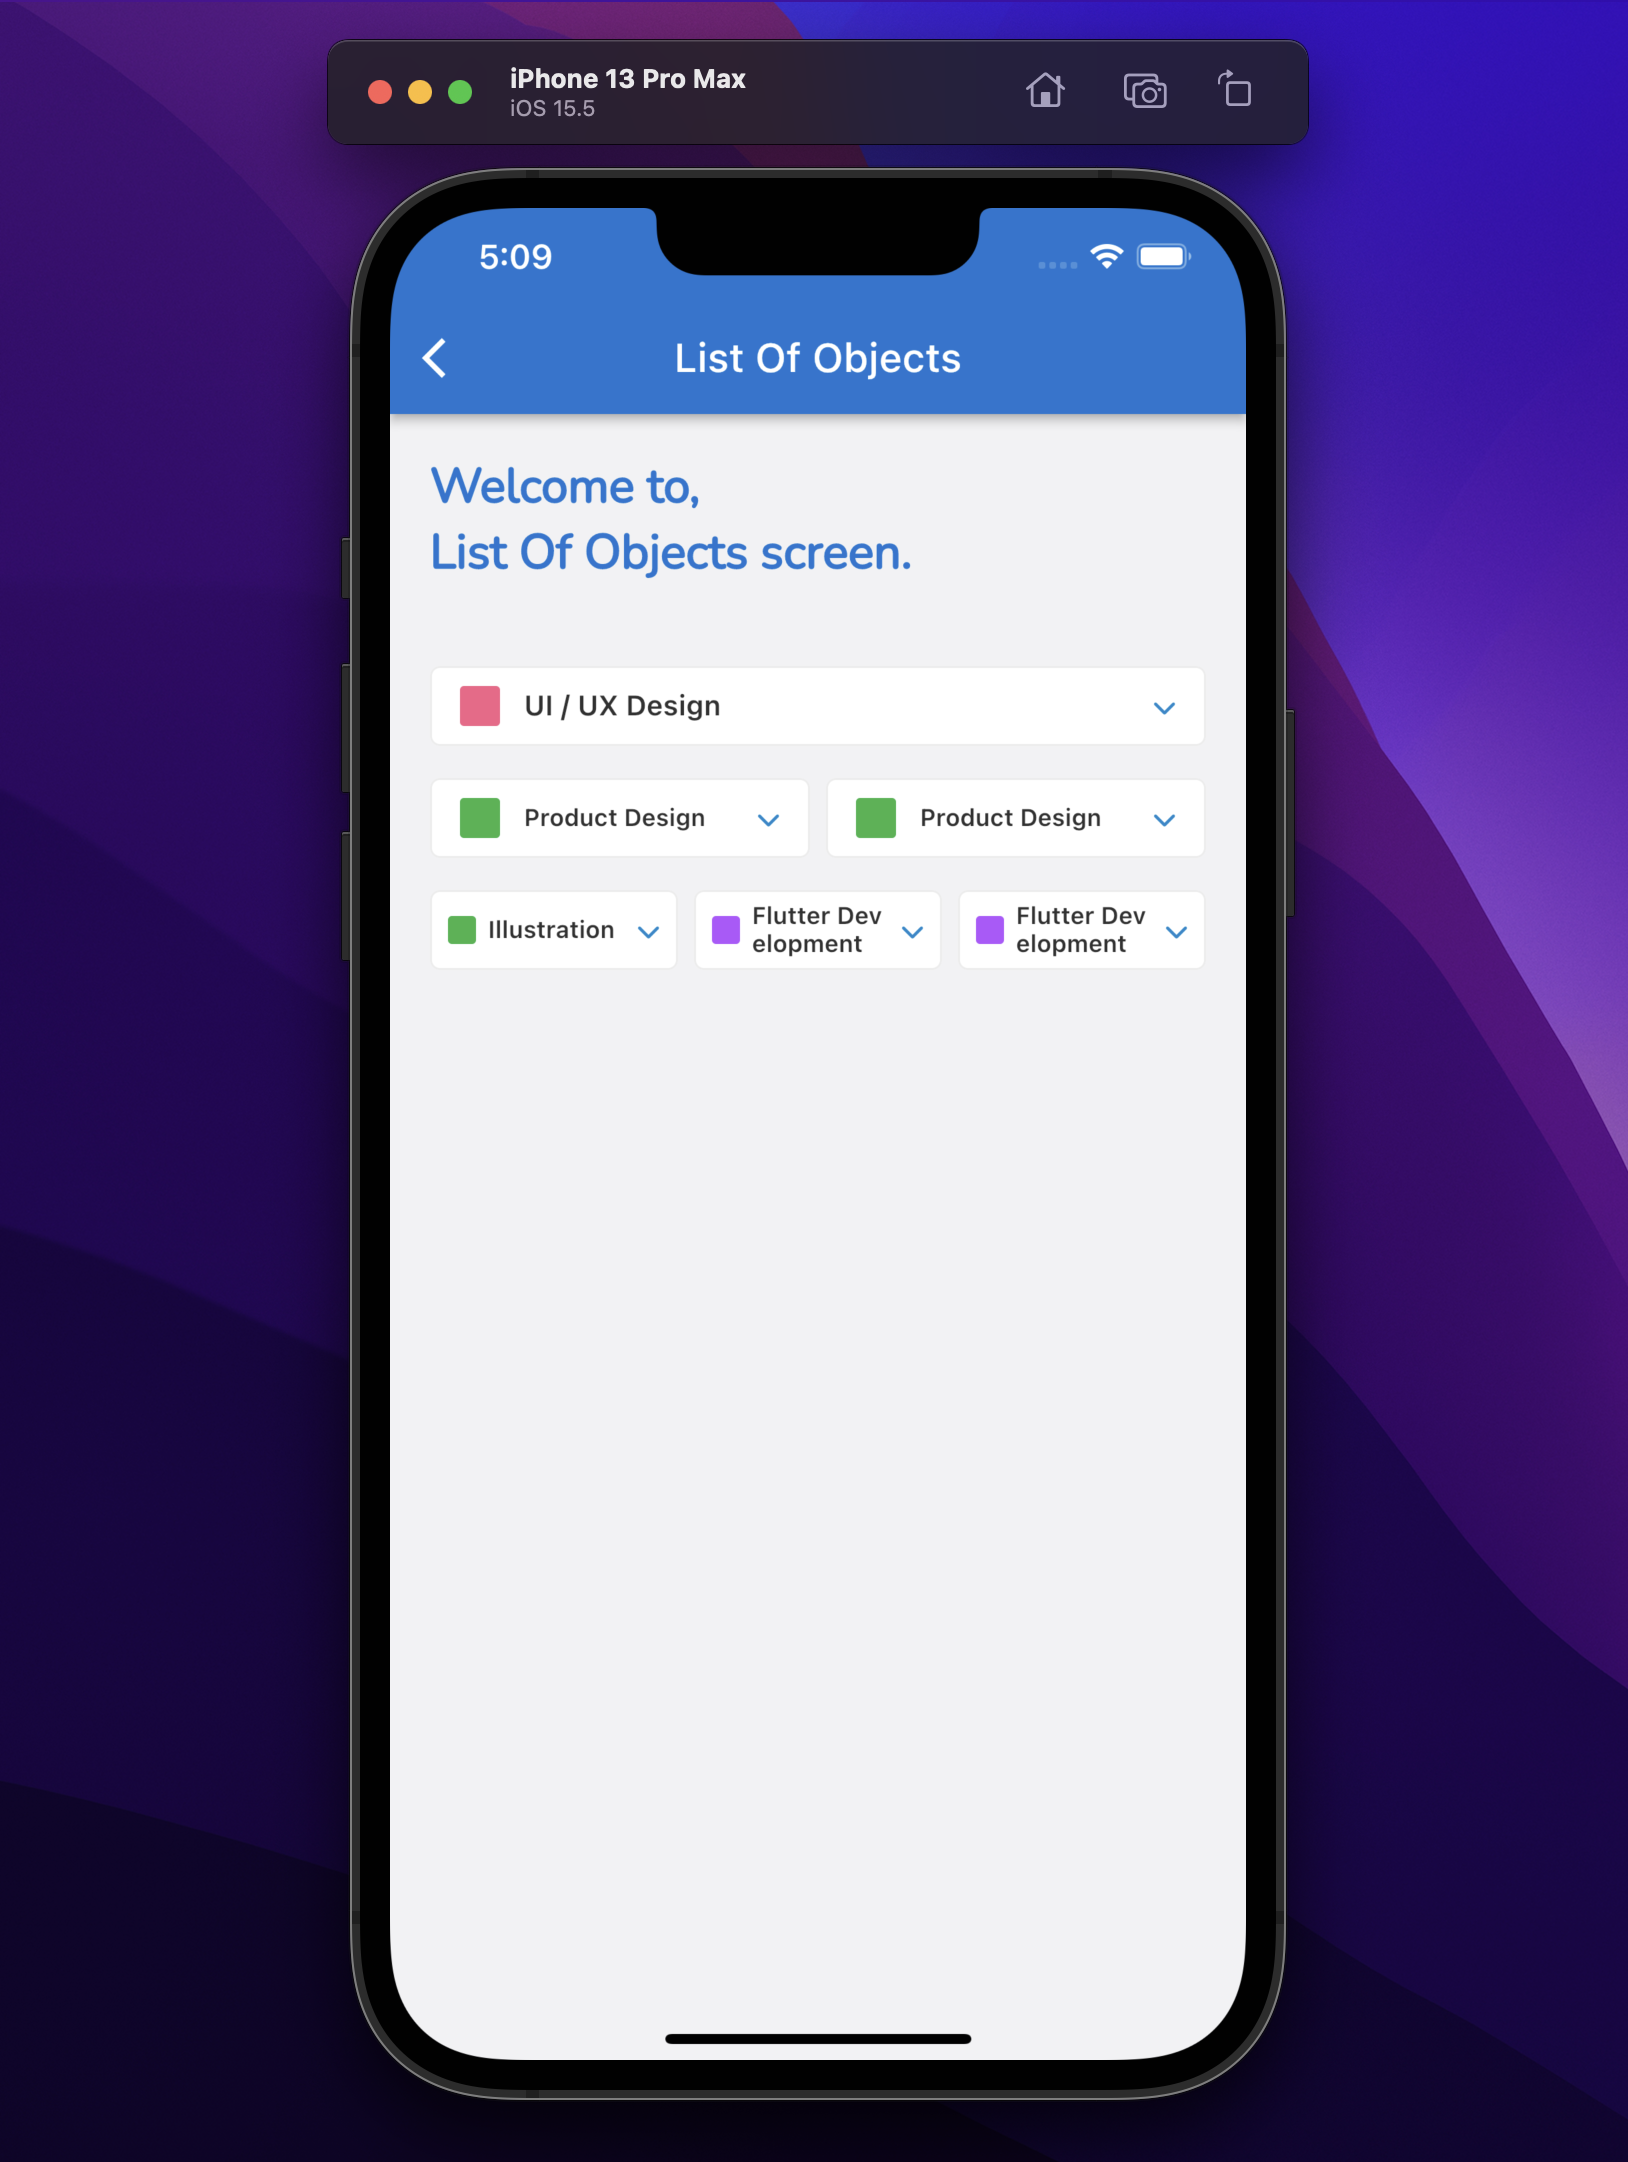
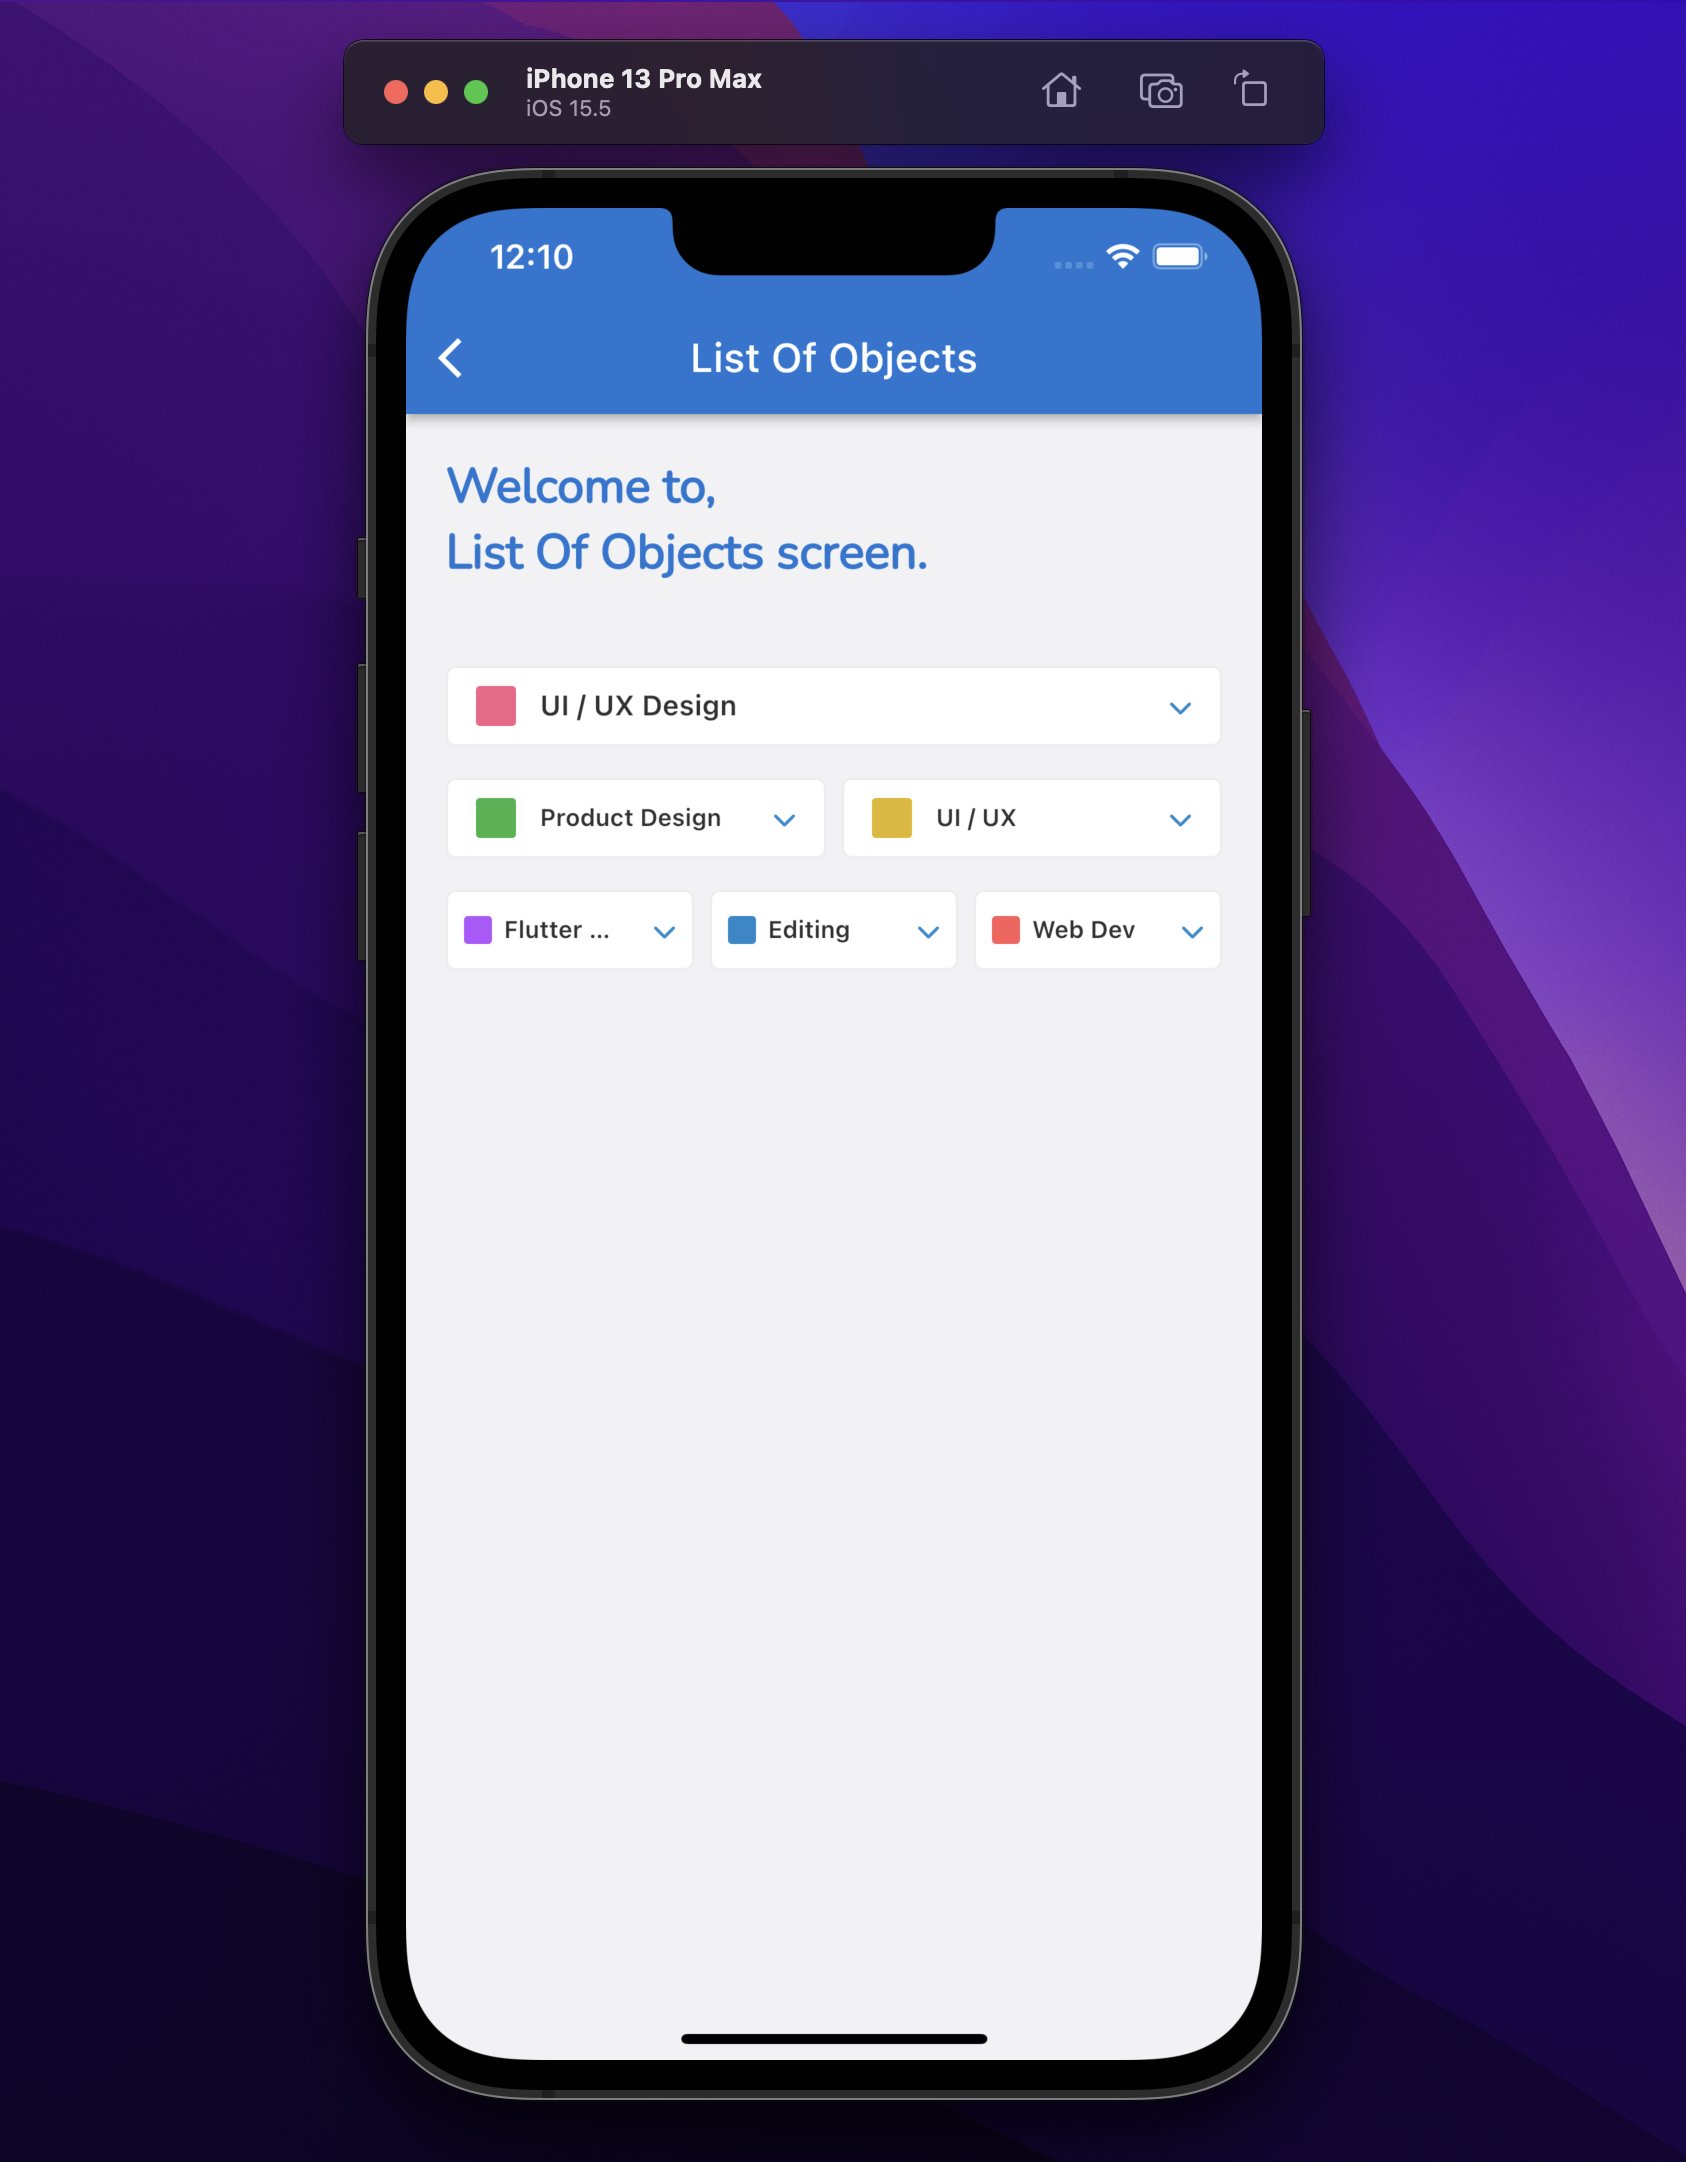
General Search..

diff --git a/example/lib/main.dart b/example/lib/main.dart
@@ -1,11 +1,17 @@
 import 'package:example/app/screens/home_screen/home_screen.dart';
-import 'package:flutter/foundation.dart';
 import 'package:flutter/material.dart';
 import 'package:google_fonts/google_fonts.dart';
 
 import 'app/core/utils/app_size_config.dart';
 
 void main() {
+  const bool isProduction = bool.fromEnvironment('dart.vm.product');
+  if (isProduction) {
+    // analyser does not like empty function body
+    // debugPrint = (String message, {int wrapWidth}) {};
+    // so i changed it to this:
+    debugPrint = (String? message, {int? wrapWidth}) {};
+  }
   runApp(const MyApp());
 }
 
@@ -15,27 +21,31 @@ class MyApp extends StatelessWidget {
   // This widget is the root of your application.
   @override
   Widget build(BuildContext context) {
-    return LayoutBuilder(builder: (context, boxConstraints) {
-      return OrientationBuilder(builder: (context, orientation) {
-        /// init sizes
-        AppSizeConfig.init(
-          orientation: orientation,
-          constraints: boxConstraints,
+    return LayoutBuilder(
+      builder: (_, BoxConstraints boxConstraints) {
+        return OrientationBuilder(
+          builder: (__, Orientation orientation) {
+            /// init sizes
+            AppSizeConfig.init(
+              orientation: orientation,
+              constraints: boxConstraints,
+            );
+            return MaterialApp(
+              title: 'Mirai dropdown menu example',
+              debugShowCheckedModeBanner: false,
+              theme: ThemeData(
+                primarySwatch: Colors.blue,
+                primaryColor: Colors.transparent,
+                textTheme: TextTheme(
+                  headline1: GoogleFonts.nunito(),
+                  button: GoogleFonts.nunito(),
+                ),
+              ),
+              home: const HomeScreen(title: 'Mirai Dropdown menu \nExample'),
+            );
+          },
         );
-        return MaterialApp(
-          title: 'Mirai dropdown menu example',
-          debugShowCheckedModeBanner: false,
-          theme: ThemeData(
-            primarySwatch: Colors.blue,
-            primaryColor: Colors.transparent,
-            textTheme: TextTheme(
-              headline1: GoogleFonts.nunito(),
-              button: GoogleFonts.nunito(),
-            ),
-          ),
-          home: const HomeScreen(title: 'Mirai Dropdown menu \nExample'),
-        );
-      });
-    });
+      },
+    );
   }
 }

diff --git a/lib/src/mirai_dropdown_menu.dart b/lib/src/mirai_dropdown_menu.dart
@@ -12,8 +12,10 @@ import 'widgets/mirai_keyboard_visibility_builder_widget.dart';
 part 'utils/enums.dart';
 
 typedef MiraiDropdownBuilder<T> = Widget Function(int index, T item);
+
 typedef MiraiHighLightDropdownBuilder<T> = Widget Function(
     int index, SearchAttributes<T> item);
+
 typedef MiraiValueChanged<T> = void Function(T value);
 
 class MiraiPopupMenu<T> extends StatefulWidget {
@@ -38,7 +40,6 @@ class MiraiPopupMenu<T> extends StatefulWidget {
     this.emptyListMessage,
     this.showSearchTextField = false,
     this.searchDecoration,
-    this.searchQuery,
   })  : assert(child.key != null),
         super(key: key);
 
@@ -74,7 +75,6 @@ class MiraiPopupMenu<T> extends StatefulWidget {
 
   final bool showSearchTextField;
   final InputDecoration? searchDecoration;
-  final String? searchQuery;
 
   @override
   MiraiPopupMenuState<T> createState() => MiraiPopupMenuState<T>();
@@ -364,14 +364,12 @@ class _DropDownMenuContentState<T> extends State<_DropDownMenuContent<T>>
           return buildItemToReturn(index, children);
         }
       } else {
-        debugPrint('buildOtherWidget index$index');
         return buildOtherWidget();
       }
     }
   }
 
   InkWell buildItemToReturn(int index, SearchAttributes<T> children) {
-    debugPrint('children index: $index');
     return InkWell(
       onTap: () => onTapChild(index),
       child: widget.itemWidget(
@@ -474,7 +472,7 @@ class _DropDownMenuContentState<T> extends State<_DropDownMenuContent<T>>
       searchChildren.value.mQueryClient = query;
 
       final results = widget.children.where((child) =>
-          '${(child is String) ? child : widget.searchQuery}'
+          ((child is String) ? child : child.toString())
               .toLowerCase()
               .contains(query));
       searchChildren.value.searchList = List.from(results);

diff --git a/example/lib/app/screens/list_of_objects_screen/components/drop_down_object_child_widget.dart b/example/lib/app/screens/list_of_objects_screen/components/drop_down_object_child_widget.dart
@@ -18,6 +18,7 @@ class DropDownObjectChildWidget extends StatelessWidget {
     this.padding,
     this.fontSize,
     this.coloredContainerSize,
+    this.height,
   }) : super(key: key);
 
   final ValueNotifier<ProjectModel> projectValueNotifier;
@@ -26,6 +27,7 @@ class DropDownObjectChildWidget extends StatelessWidget {
   final EdgeInsetsGeometry? padding;
   final double? fontSize;
   final double? coloredContainerSize;
+  final double? height;
 
   @override
   Widget build(BuildContext context) {
@@ -40,7 +42,7 @@ class DropDownObjectChildWidget extends StatelessWidget {
           width: 1.0,
         ),
       ),
-      height: 40,
+      height: height ?? 40,
       child: ValueListenableBuilder<ProjectModel>(
         valueListenable: projectValueNotifier,
         builder: (_, ProjectModel project, __) {
@@ -59,10 +61,12 @@ class DropDownObjectChildWidget extends StatelessWidget {
                     child: Text(
                       '${project.job}',
                       key: ValueKey<String>('${project.title}'.trim()),
+                      maxLines: 1,
                       style: Theme.of(context).textTheme.bodyText1!.copyWith(
                             fontWeight: FontWeight.w600,
                             color: AppTheme.keyTextBlackColor,
                             fontSize: fontSize,
+                            overflow: TextOverflow.ellipsis,
                           ),
                     ),
                   ),

diff --git a/example/lib/app/screens/list_of_objects_screen/list_of_objects_screen.dart b/example/lib/app/screens/list_of_objects_screen/list_of_objects_screen.dart
@@ -65,6 +65,7 @@ class _ListObjectsScreenState extends State<ListObjectsScreen> {
               key: UniqueKey(),
               children: listProjects,
               space: 4,
+              showSearchTextField: true,
               itemWidgetBuilder: (int index, ProjectModel project) {
                 return DropDownItemWidget(project: project);
               },

diff --git a/example/lib/app/models/project_model.dart b/example/lib/app/models/project_model.dart
@@ -24,4 +24,9 @@ class ProjectModel {
     this.progress,
     this.color = const Color(0xFF37B34A),
   });
+
+  @override
+  String toString() {
+    return 'ProjectModel{number: $number, job: $job, name: $name, title: $title, date: $date, client: $client, progress: $progress, color: $color}';
+  }
 }

diff --git a/example/lib/app/data/projects.dart b/example/lib/app/data/projects.dart
@@ -24,7 +24,7 @@ ProjectModel projectModel1 = ProjectModel(
 
 ProjectModel projectModel2 = ProjectModel(
   job: "BackEnd Development",
-  name: "Mohammed Benmchich",
+  name: "Bilal Aboubi",
   title: "5% completed 19988 budget left",
   progress: 0.05,
   color: listColor[2],

diff --git a/README.md b/README.md
@@ -216,19 +216,26 @@ If the MiraiDropDown package matches your needs, please do not hesitate to suppo
 
 <a href="https://www.buymeacoffee.com/miraidevs" target="_blank"><img src="https://www.buymeacoffee.com/assets/img/custom_images/purple_img.png" alt="Buy Me A Coffee" style="height: 41px !important;width: 174px !important;box-shadow: 0px 3px 2px 0px rgba(190, 190, 190, 0.5) !important;-webkit-box-shadow: 0px 3px 2px 0px rgba(190, 190, 190, 0.5) !important;" ></a>
 
-## iOS:
-
 #### List Of Objects:
 ![](screenshots/0.0.6_screenshots/06.png)
 ![](screenshots/0.0.6_screenshots/07.png)
 ![](screenshots/0.0.6_screenshots/08.png)
 ![](screenshots/0.0.6_screenshots/09.png)
 
+#### General search list of objects:
+![](screenshots/0.0.6+1_screenshots/01.png)
+![](screenshots/0.0.6+1_screenshots/02.png)
+![](screenshots/0.0.6+1_screenshots/03.png)
+![](screenshots/0.0.6+1_screenshots/04.png)
+![](screenshots/0.0.6+1_screenshots/05.png)
+
 #### List Of Texts / Strings:
 ![](screenshots/0.0.6_screenshots/01.png)
-![](screenshots/0.0.6_screenshots/10.png)
-![](screenshots/0.0.6_screenshots/11.png)
 ![](screenshots/0.0.6_screenshots/02.png)
 ![](screenshots/0.0.6_screenshots/03.png)
 ![](screenshots/0.0.6_screenshots/04.png)
 ![](screenshots/0.0.6_screenshots/05.png)
+
+#### Search for List Of Texts / Strings:
+![](screenshots/0.0.6_screenshots/10.png)
+![](screenshots/0.0.6_screenshots/11.png)

diff --git a/CHANGELOG.md b/CHANGELOG.md
@@ -1,3 +1,7 @@
+## 0.0.6+1 - 2022-06-29
+
+* General search ✅
+
 ## 0.0.6 - 2022-06-24
 
 * Added new features such as:
